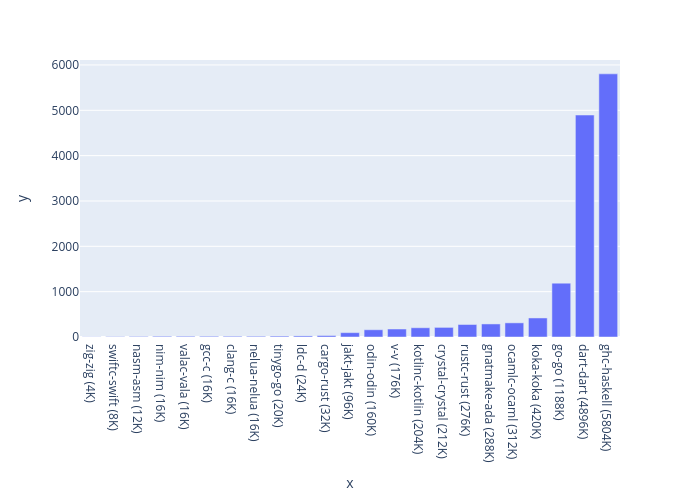
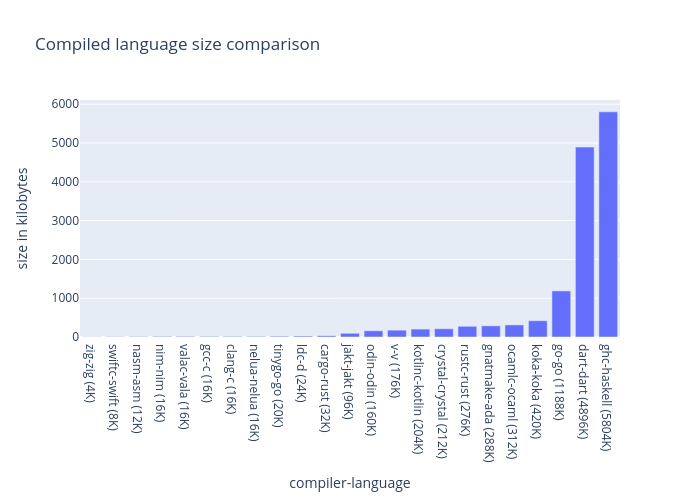
feat: logarithmic chart

diff --git a/scripts/bar_chart.py b/scripts/bar_chart.py
@@ -5,13 +5,26 @@ import plotly.express as px
 file = open("size.txt", "r")
 size_data = file.readlines()
 
-lang_size = map(lambda x: int(x.split()[0]), size_data)
-lang_name = map(lambda x: f"{x.split()[1]} ({x.split()[0]}K)", size_data)
+lang_size = list(map(lambda x: int(x.split()[0]), size_data))
+lang_name = list(map(lambda x: f"{x.split()[1]} ({x.split()[0]}K)", size_data))
 
-fig = px.bar(y=list(lang_size), x=list(lang_name))
 
-output = open("assets/chart.png", "wb")
-output.write(fig.to_image("png"))
+def generate_image(log: bool):
+    fig = px.bar(
+        title=f"Compiled language size comparison {'(in logarithmic)' if log else ''}",
+        x=lang_name,
+        y=lang_size,
+        labels={"x": "compiler-language", "y": "size in kilobytes"},
+        log_y=log
+    )
 
-file.close()
-output.close()
+    output = open(f"assets/chart{'_log' if log else ''}.png", "wb")
+    output.write(fig.to_image("png"))
+    output.close()
+
+
+if __name__ == "__main__":
+    generate_image(False)
+    generate_image(True)
+
+    file.close()

diff --git a/README.md b/README.md
@@ -2,7 +2,13 @@ Compare size of compiled languages.
 
 ### Chart
 
+Linear chart:
+
 ![](./assets/chart.png)
+
+Logarithmic chart:
+
+![](./assets/chart_log.png)
 
 ### Table
 
